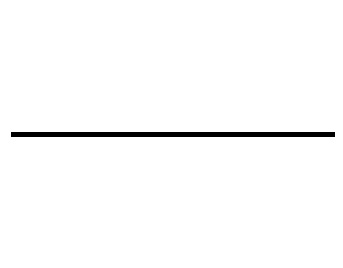
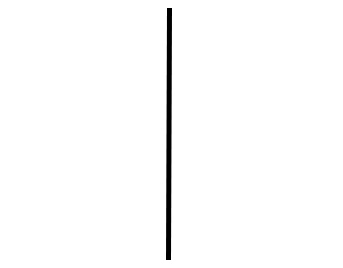
drawing 2.0

Changed region(s): [[0.0292, 0.0299, 0.9913, 0.9851]]

diff --git a/Presentation Layer/DrawingModule/PrintPath.cs b/Presentation Layer/DrawingModule/PrintPath.cs
@@ -20,6 +20,8 @@ namespace PresentationLayer.DrawingModule
 
         private DrawingModulePL view;
 
+        private int pathIndex;
+
         public PrintPath(IFrameWork frameWork, DrawingModulePL view)
         {
             this.frameWork = frameWork;
@@ -40,25 +42,54 @@ namespace PresentationLayer.DrawingModule
             else
             {
                 int pathLength = 0;
-                for (int i = 0; i < path.Count - 1; i++)
+                for (int z = 0; z < 5; z++)
                 {
-                    pathLength += graph[path[i], path[i + 1]];
-                    PrintItem(adatok[path[i]].ItemType, i);
-                    //Console.Write(adatok[path[i]].nev);
-                    //if (i != path.Count - 2) Console.Write(" -> ");
+                    for (int i = 0; i < path.Count - 1; i++)
+                    {
+                        pathLength += graph[path[i], path[i + 1]];
+                        PrintItem(adatok[path[i]].ItemType);
+                        //Console.Write(adatok[path[i]].nev);
+                        //if (i != path.Count - 2) Console.Write(" -> ");
+                    }
                 }
+                
 
                 //var formattedPath = string.Join(" -> ", path);
                 //Console.WriteLine("{0}   ({1} összerendelés)", formattedPath, pathLength);
             }
         }
 
-        private void PrintItem(SymbolName symbolName, int pathNumber)
+        private void PrintItem(SymbolName symbolName)
         {
             ISymbol symbol = frameWork.GetSymbol(symbolName);
-            view.ImageLoad( pathNumber % view.ColumnNumber , pathNumber / view.ColumnNumber, symbol.GetImage());
-           // ISymbol link = frameWork.GetSymbol(SymbolName.Linehorizontal);
-            //view.ImageLoad()
+            int pathX, pathY;
+            ConvertPath(out pathX, out pathY);
+            view.ImageLoad(pathX, pathY, symbol.GetImage());
+            pathIndex++;
+            ConvertPath(out pathX, out pathY);
+            ISymbol link;
+            // TODO javítani bal vagy jobb kanyar
+            if (pathX == view.ColumnNumber - 1 || pathX == 0)
+            {
+             link = frameWork.GetSymbol(SymbolName.Linevertical);
+            }
+            else
+            {
+             link = frameWork.GetSymbol(SymbolName.Linehorizontal);
+            }
+            view.ImageLoad(pathX, pathY , link.GetImage());
+            pathIndex++;
+
+        }
+
+        private void ConvertPath(out int pathX, out int pathY)
+        {
+            pathX = pathIndex % (view.ColumnNumber);
+            pathY = pathIndex / (view.ColumnNumber);
+            if (pathY % 2 > 0)
+            {
+                pathX = view.ColumnNumber -1 - pathX;
+            }
         }
     }
 }

diff --git a/Presentation Layer/DrawingModule/DrawingModulePL.cs b/Presentation Layer/DrawingModule/DrawingModulePL.cs
@@ -6,7 +6,6 @@ using System;
 using System.Drawing;
 using System.Windows.Forms;
 using static Common.Helpers;
-using PresentationLayer.DrawingModule;
 
 namespace PresentationLayer.DrawingModule
 {
@@ -52,7 +51,6 @@ namespace PresentationLayer.DrawingModule
                 //tableLayoutPanel1.Controls.Remove((tableLayoutPanel1.GetControlFromPosition(i / 6, i % 6)));
            
                 //tableLayoutPanel1.GetControlFromPosition(i / 6, i % 6).Visible = false;
-            
         }
 
         private void tableLayoutPanel1_Paint(object sender, PaintEventArgs e)

diff --git a/Presentation Layer/DrawingModule/DrawingModuleBL.cs b/Presentation Layer/DrawingModule/DrawingModuleBL.cs
@@ -1,12 +1,5 @@
-using BusinessLayer;
-using BusinessLayer.DrawingModule;
+using BusinessLayer.DrawingModule;
 using BusinessLayer.Interfaces;
-using System;
-using System.Collections.Generic;
-using System.Linq;
-using System.Text;
-using System.Threading.Tasks;
-using System.Windows.Forms;
 using static Common.Helpers;
 
 namespace PresentationLayer.DrawingModule
